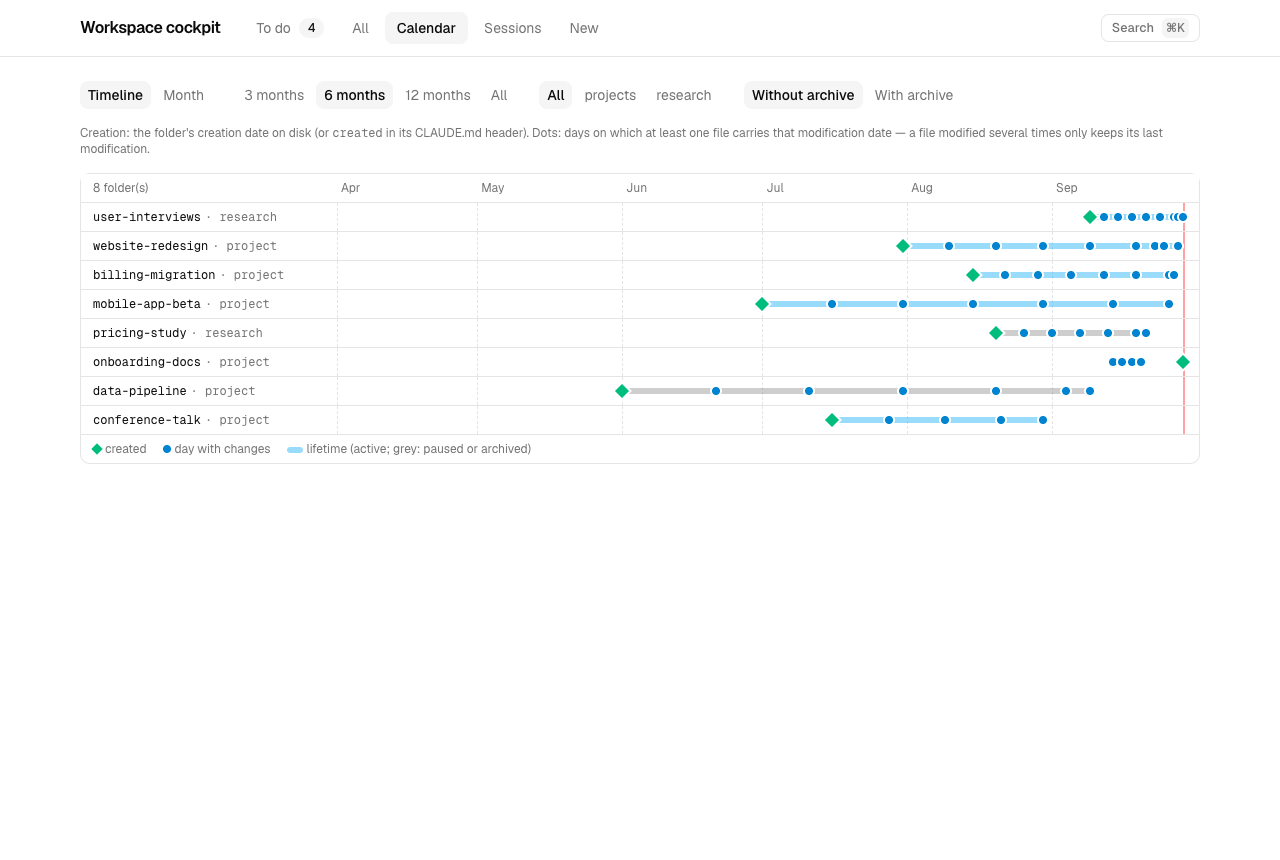
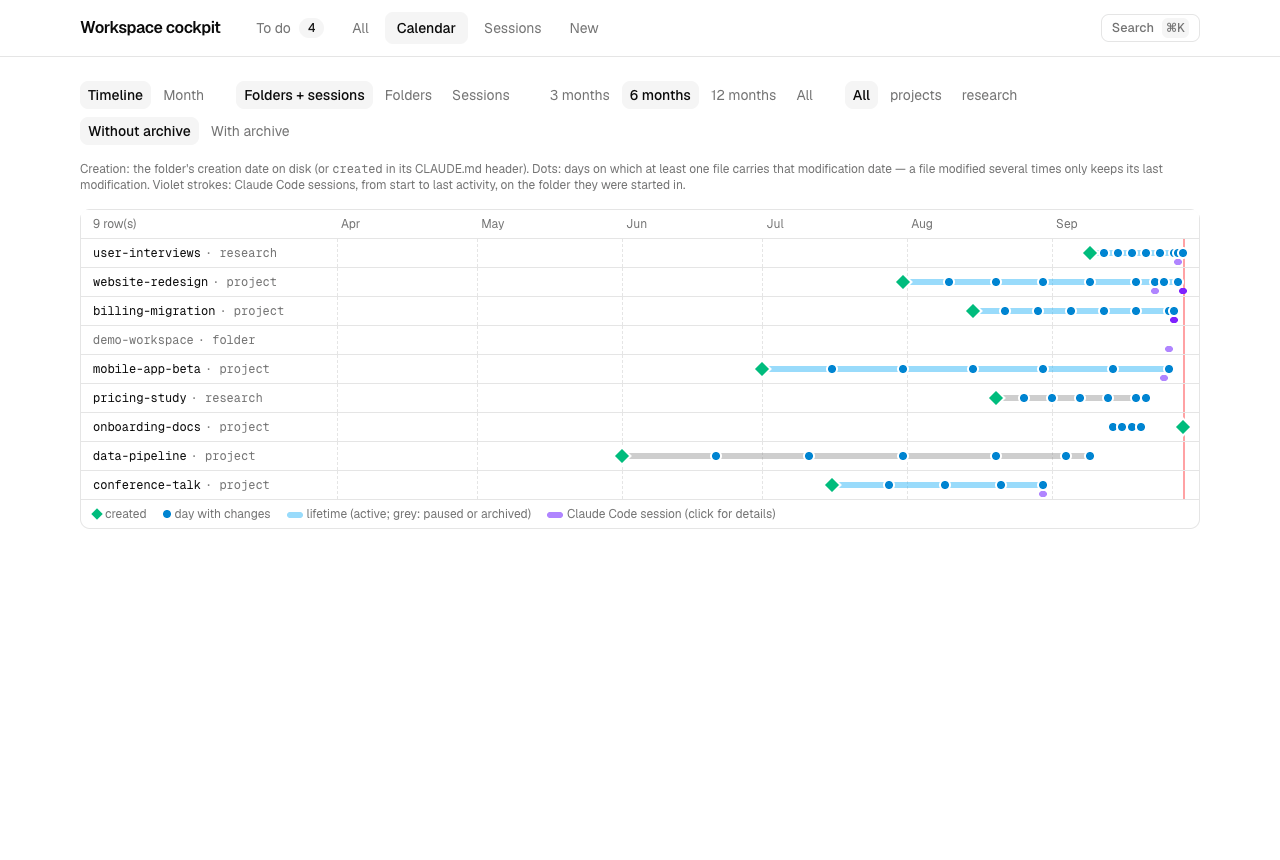
Calendar: show Claude Code sessions next to folders
A Folders / Sessions / both filter on the timeline and the month grid; sessions
attach to the tracked folder they were started in, others get a folder row.

diff --git a/web/components/timeline.tsx b/web/components/timeline.tsx
@@ -1,59 +1,81 @@
 import Link from "next/link";
-import { position, rangeStart, ticks, type Period } from "@/lib/calendar";
+import { localDay, position, rangeStart, ticks, type Period } from "@/lib/calendar";
+import { timelineRows, type Display } from "@/lib/calendar-rows";
 import { folderLink } from "@/lib/home";
-import type { CalendarEntry } from "@/lib/types";
+import type { CalendarEntry, Session } from "@/lib/types";
 import { cn } from "@/lib/utils";
 
 const pct = (f: number) => `${(f * 100).toFixed(3)}%`;
+const title = (s: Session) => s.title || s.first_prompt || s.last_prompt || "(untitled)";
 
-export function Timeline({ entries, today, period }: { entries: CalendarEntry[]; today: string; period: Period }) {
+export function Timeline({ entries, sessions, tracked, display, kindFilter, rootName, today, period }: {
+  entries: CalendarEntry[]; sessions: Session[]; tracked: string[]; display: Display; kindFilter: string; rootName: string;
+  today: string; period: Period;
+}) {
   const start = rangeStart(period, today, entries);
-  const last = (e: CalendarEntry) => e.days.at(-1) ?? e.created;
-  // Folders with no life inside the range are hidden; the most recently active come first.
-  const rows = entries.filter((e) => last(e) >= start).sort((a, b) => last(b).localeCompare(last(a)) || b.created.localeCompare(a.created));
+  const rows = timelineRows(entries, sessions, tracked, display, kindFilter, rootName).filter((r) => r.last >= start);
   const months = ticks(start, today);
 
   return (
     <div className="rounded-lg border">
       <div className="sticky top-14 z-10 flex border-b bg-background/95 text-xs text-muted-foreground">
-        <div className="w-64 shrink-0 px-3 py-1.5">{rows.length} folder(s)</div>
+        <div className="w-64 shrink-0 px-3 py-1.5">{rows.length} row(s)</div>
         <div className="relative mr-4 flex-1">
           {months.map((m) => <span key={m.key} className="absolute top-1.5 pl-1" style={{ left: pct(m.position) }}>{m.label}</span>)}
         </div>
       </div>
       <ul>
-        {rows.map((e) => {
+        {rows.map((r) => {
+          const e = r.entry;
+          const last = e ? (e.days.at(-1) ?? e.created) : "";
           // Imported files can be older than the folder: the bar starts at whichever comes first.
-          const first = e.days[0] && e.days[0] < e.created ? e.days[0] : e.created;
-          const left = position(first, start, today);
-          const right = position(last(e), start, today);
+          const first = e ? (e.days[0] && e.days[0] < e.created ? e.days[0] : e.created) : "";
           return (
-            <li key={e.path} className="flex items-center border-b last:border-b-0 hover:bg-muted/40">
-              <Link href={folderLink(e.path)} className="w-64 shrink-0 truncate px-3 py-1.5 font-mono text-xs hover:underline" title={e.path}>
-                {e.name}<span className="ml-1 text-muted-foreground">· {e.label}</span>
-              </Link>
+            <li key={r.key || "__root"} className="flex items-center border-b last:border-b-0 hover:bg-muted/40">
+              {tracked.includes(r.key)
+                ? <Link href={folderLink(r.key)} className="w-64 shrink-0 truncate px-3 py-1.5 font-mono text-xs hover:underline" title={r.key}>
+                    {r.name}{e && <span className="ml-1 text-muted-foreground">· {e.label}</span>}
+                  </Link>
+                : <Link href="/sessions" className="w-64 shrink-0 truncate px-3 py-1.5 font-mono text-xs text-muted-foreground hover:underline" title={`Sessions started in ${r.name}`}>
+                    {r.name}<span className="ml-1">· folder</span>
+                  </Link>}
               <div className="relative mr-4 h-7 flex-1">
                 {months.map((m) => <span key={m.key} className="absolute inset-y-0 border-l border-dashed border-border" style={{ left: pct(m.position) }} />)}
                 <span className="absolute inset-y-0 border-l-2 border-red-400/60" style={{ left: pct(1) }} title="today" />
-                <span title={`created ${e.created} · last activity ${last(e)}`}
-                  className={cn("absolute top-1/2 h-1.5 -translate-y-1/2 rounded-full",
-                    e.archived ? "bg-muted-foreground/20" : e.status === "active" ? "bg-sky-500/40" : "bg-muted-foreground/35")}
-                  style={{ left: pct(left), width: `max(0.375rem, ${pct(right - left)})` }} />
-                {e.days.filter((d) => d >= start).map((d) => (
-                  <span key={d} title={d} className={cn("absolute top-1/2 size-2 -translate-x-1/2 -translate-y-1/2 rounded-full ring-2 ring-background",
-                    e.archived ? "bg-muted-foreground/50" : "bg-sky-600")} style={{ left: pct(position(d, start, today)) }} />
-                ))}
-                {/* Drawn last: the creation marker stays visible over a same-day modification dot. */}
-                {e.created >= start && <span title={`created ${e.created}`} className="absolute top-1/2 size-2.5 -translate-x-1/2 -translate-y-1/2 rotate-45 bg-emerald-500 ring-2 ring-background" style={{ left: pct(position(e.created, start, today)) }} />}
+                {e && (
+                  <>
+                    <span title={`created ${e.created} · last activity ${last}`}
+                      className={cn("absolute top-1/2 h-1.5 -translate-y-1/2 rounded-full",
+                        e.archived ? "bg-muted-foreground/20" : e.status === "active" ? "bg-sky-500/40" : "bg-muted-foreground/35")}
+                      style={{ left: pct(position(first, start, today)), width: `max(0.375rem, ${pct(position(last, start, today) - position(first, start, today))})` }} />
+                    {e.days.filter((d) => d >= start).map((d) => (
+                      <span key={d} title={d} className={cn("absolute top-1/2 size-2 -translate-x-1/2 -translate-y-1/2 rounded-full ring-2 ring-background",
+                        e.archived ? "bg-muted-foreground/50" : "bg-sky-600")} style={{ left: pct(position(d, start, today)) }} />
+                    ))}
+                  </>
+                )}
+                {/* Sessions: a violet stroke at the bottom of the row, from first to last activity. */}
+                {r.sessions.filter((s) => localDay(s.end) >= start).map((s) => {
+                  const l = position(localDay(s.start), start, today);
+                  const w = position(localDay(s.end), start, today) - l;
+                  return (
+                    <Link key={s.id} href={`/sessions?s=${s.id}`}
+                      title={`${title(s)} — ${localDay(s.start)} → ${localDay(s.end)}${s.open ? " (open)" : ""}`}
+                      className={cn("absolute bottom-0.5 h-1.5 rounded-sm hover:h-2.5", s.open ? "bg-violet-600" : "bg-violet-500/70")}
+                      style={{ left: `calc(${pct(l)} - 0.25rem)`, width: `max(0.5rem, ${pct(w)})` }} />
+                  );
+                })}
+                {e && e.created >= start && <span title={`created ${e.created}`} className="absolute top-1/2 size-2.5 -translate-x-1/2 -translate-y-1/2 rotate-45 bg-emerald-500 ring-2 ring-background" style={{ left: pct(position(e.created, start, today)) }} />}
               </div>
             </li>
           );
         })}
       </ul>
-      <div className="flex gap-4 border-t px-3 py-1.5 text-xs text-muted-foreground">
+      <div className="flex flex-wrap gap-4 border-t px-3 py-1.5 text-xs text-muted-foreground">
         <span><span className="mr-1 inline-block size-2 rotate-45 bg-emerald-500" />created</span>
         <span><span className="mr-1 inline-block size-2 rounded-full bg-sky-600" />day with changes</span>
         <span><span className="mr-1 inline-block h-1.5 w-4 rounded-full bg-sky-500/40" />lifetime (active; grey: paused or archived)</span>
+        <span><span className="mr-1 inline-block h-1.5 w-4 rounded-sm bg-violet-500/70" />Claude Code session (click for details)</span>
       </div>
     </div>
   );

diff --git a/web/components/month.tsx b/web/components/month.tsx
@@ -1,21 +1,31 @@
 import Link from "next/link";
 import { ChevronLeft, ChevronRight } from "lucide-react";
 import { Button } from "@/components/ui/button";
-import { MONTH_NAMES, addMonths, byDay, monthGrid } from "@/lib/calendar";
+import { MONTH_NAMES, addMonths, attach, byDay, monthGrid, sessionsByDay, type DaySummary } from "@/lib/calendar";
+import type { Display } from "@/lib/calendar-rows";
 import { folderLink } from "@/lib/home";
-import type { CalendarEntry } from "@/lib/types";
+import type { CalendarEntry, Session } from "@/lib/types";
 import { cn } from "@/lib/utils";
 
 const PER_CELL = 3;
 const WEEKDAYS = ["Mon", "Tue", "Wed", "Thu", "Fri", "Sat", "Sun"];
+const title = (s: Session) => s.title || s.first_prompt || s.last_prompt || "(untitled)";
 
-export function Month({ entries, today, month, day, onMonth, onDay }: {
-  entries: CalendarEntry[]; today: string; month: string; day: string | null;
-  onMonth: (m: string) => void; onDay: (d: string | null) => void;
+export function Month({ entries, sessions, tracked, display, kindFilter, rootName, today, month, day, onMonth, onDay }: {
+  entries: CalendarEntry[]; sessions: Session[]; tracked: string[]; display: Display; kindFilter: string; rootName: string;
+  today: string; month: string; day: string | null; onMonth: (m: string) => void; onDay: (d: string | null) => void;
 }) {
   const key = /^\d{4}-\d{2}$/.test(month) ? month : today.slice(0, 7);
-  const days = byDay(entries);
-  const chosen = day ? days.get(day) : undefined;
+  const days: Map<string, DaySummary> = display === "sessions" ? new Map() : byDay(entries);
+  // Same rule as the timeline: a session follows its folder's visibility; outside any tracked folder, only without a collection filter.
+  const shown = new Set(entries.map((e) => e.path));
+  const visibleSessions = display === "folders" ? [] : sessions.filter((s) => {
+    const row = attach(s, tracked);
+    return tracked.includes(row) ? shown.has(row) : !kindFilter;
+  });
+  const sessionDays = sessionsByDay(visibleSessions);
+  const chosen = day ? { ...(days.get(day) ?? { created: [], modified: [] }), sessions: sessionDays.get(day) ?? [] } : null;
+  const empty = !chosen || chosen.created.length + chosen.modified.length + chosen.sessions.length === 0;
 
   return (
     <div className="space-y-3">
@@ -29,34 +39,49 @@ export function Month({ entries, today, month, day, onMonth, onDay }: {
         {WEEKDAYS.map((d) => <div key={d} className="border-b bg-muted/50 px-2 py-1 font-medium text-muted-foreground">{d}</div>)}
         {monthGrid(key).flat().map((d) => {
           const summary = days.get(d);
-          const names = [...(summary?.created ?? []).map((e) => ({ e, created: true })), ...(summary?.modified ?? []).map((e) => ({ e, created: false }))];
+          const lines = [
+            ...(summary?.created ?? []).map((e) => ({ key: `c${e.path}`, text: `+ ${e.name}`, cls: "font-mono text-emerald-600 dark:text-emerald-400" })),
+            ...(summary?.modified ?? []).map((e) => ({ key: `m${e.path}`, text: e.name, cls: "font-mono" })),
+            ...(sessionDays.get(d) ?? []).map((s) => ({ key: `s${s.id}`, text: `▸ ${title(s)}`, cls: "text-violet-600 dark:text-violet-400" })),
+          ];
           return (
-            <button key={d} onClick={() => onDay(names.length ? d : null)}
+            <button key={d} onClick={() => onDay(lines.length ? d : null)}
               className={cn("flex min-h-24 flex-col items-stretch justify-start border-b border-l p-1.5 text-left hover:bg-muted/40 [&:nth-child(7n+1)]:border-l-0",
                 !d.startsWith(key) && "bg-muted/20 text-muted-foreground/60", d === day && "ring-2 ring-inset ring-sky-500")}>
               <div className={cn("mb-1 self-start tabular-nums", d === today && "inline-flex size-5 items-center justify-center rounded-full bg-red-500 text-white")}>{+d.slice(8)}</div>
-              {names.slice(0, PER_CELL).map(({ e, created }) => (
-                <div key={e.path + created} className={cn("truncate font-mono", created ? "text-emerald-600 dark:text-emerald-400" : "")}>{created ? "+ " : ""}{e.name}</div>
-              ))}
-              {names.length > PER_CELL && <div className="text-muted-foreground">+{names.length - PER_CELL} more</div>}
+              {lines.slice(0, PER_CELL).map((l) => <div key={l.key} className={cn("truncate", l.cls)}>{l.text}</div>)}
+              {lines.length > PER_CELL && <div className="text-muted-foreground">+{lines.length - PER_CELL} more</div>}
             </button>
           );
         })}
       </div>
-      {day && chosen && (
+      {day && chosen && !empty && (
         <div className="rounded-lg border p-3 text-sm">
           <div className="mb-2 flex items-center">
             <h3 className="font-semibold">{day}</h3>
             <Button variant="ghost" size="sm" className="ml-auto" onClick={() => onDay(null)}>Close</Button>
           </div>
-          {([["Created", chosen.created], ["Modified", chosen.modified]] as const).map(([title, list]) => list.length > 0 && (
-            <div key={title} className="mb-2">
-              <div className="text-xs font-medium text-muted-foreground">{title}</div>
+          {([["Created", chosen.created], ["Modified", chosen.modified]] as const).map(([heading, list]) => list.length > 0 && (
+            <div key={heading} className="mb-2">
+              <div className="text-xs font-medium text-muted-foreground">{heading}</div>
               <ul className="mt-1 flex flex-wrap gap-x-4 gap-y-1">
                 {list.map((e) => <li key={e.path}><Link href={folderLink(e.path)} className="font-mono text-xs hover:underline">{e.name}</Link></li>)}
               </ul>
             </div>
           ))}
+          {chosen.sessions.length > 0 && (
+            <div>
+              <div className="text-xs font-medium text-muted-foreground">Claude Code sessions</div>
+              <ul className="mt-1 space-y-0.5">
+                {chosen.sessions.map((s) => (
+                  <li key={s.id} className="text-xs">
+                    <Link href={`/sessions?s=${s.id}`} className="text-violet-600 hover:underline dark:text-violet-400">{title(s)}</Link>
+                    <span className="ml-2 font-mono text-muted-foreground">{s.folder || rootName}</span>
+                  </li>
+                ))}
+              </ul>
+            </div>
+          )}
         </div>
       )}
     </div>

diff --git a/web/components/calendar-view.tsx b/web/components/calendar-view.tsx
@@ -2,7 +2,8 @@
 
 import { usePathname, useRouter, useSearchParams } from "next/navigation";
 import type { Period } from "@/lib/calendar";
-import type { CalendarEntry } from "@/lib/types";
+import type { Display } from "@/lib/calendar-rows";
+import type { CalendarEntry, Session } from "@/lib/types";
 import { cn } from "@/lib/utils";
 import { Month } from "./month";
 import { useSettings } from "./settings";
@@ -19,11 +20,11 @@ function Choice({ options, value, onChoose }: { options: [string, string][]; val
   );
 }
 
-export function CalendarView({ entries, today }: { entries: CalendarEntry[]; today: string }) {
+export function CalendarView({ entries, sessions, today }: { entries: CalendarEntry[]; sessions: Session[]; today: string }) {
   const router = useRouter();
   const pathname = usePathname();
   const params = useSearchParams();
-  const { collections, header_file } = useSettings();
+  const { collections, header_file, root } = useSettings();
   const view = params.get("view") === "month" ? "month" : "timeline";
   const period = (params.get("period") ?? "6") as Period;
   const kind = params.get("kind") ?? "";
@@ -33,23 +34,29 @@ export function CalendarView({ entries, today }: { entries: CalendarEntry[]; tod
     if (value) next.set(key, value); else next.delete(key);
     router.replace(`${pathname}?${next.toString()}`, { scroll: false });
   };
+  const display = (["folders", "sessions"].includes(params.get("show") ?? "") ? params.get("show") : "both") as Display;
   const visible = entries.filter((e) => (!kind || e.collection === kind) && (archives || !e.archived));
+  // Sessions attach to any known folder (archived included), so hiding the archive also hides their sessions.
+  const tracked = entries.map((e) => e.path);
+  const rootName = root.split("/").filter(Boolean).at(-1) ?? "workspace";
 
   return (
     <div className="space-y-4">
       <div className="flex flex-wrap items-center gap-x-6 gap-y-2">
         <Choice options={[["timeline", "Timeline"], ["month", "Month"]]} value={view} onChoose={(v) => change("view", v === "timeline" ? "" : v)} />
+        <Choice options={[["both", "Folders + sessions"], ["folders", "Folders"], ["sessions", "Sessions"]]} value={display} onChoose={(v) => change("show", v === "both" ? "" : v)} />
         {view === "timeline" && <Choice options={[["3", "3 months"], ["6", "6 months"], ["12", "12 months"], ["all", "All"]]} value={period} onChoose={(v) => change("period", v === "6" ? "" : v)} />}
         {collections.length > 1 && <Choice options={[["", "All"], ...collections.map((c): [string, string] => [c.dir, c.dir])]} value={kind} onChoose={(v) => change("kind", v)} />}
         <Choice options={[["", "Without archive"], ["1", "With archive"]]} value={archives ? "1" : ""} onChoose={(v) => change("archives", v)} />
       </div>
       <p className="text-xs text-muted-foreground">
         Creation: the folder&apos;s creation date on disk (or <code>created</code> in its {header_file} header). Dots: days on which at least one file
-        carries that modification date — a file modified several times only keeps its last modification.
+        carries that modification date — a file modified several times only keeps its last modification. Violet strokes:
+        Claude Code sessions, from start to last activity, on the folder they were started in.
       </p>
       {view === "timeline"
-        ? <Timeline entries={visible} today={today} period={period} />
-        : <Month entries={visible} today={today} month={params.get("month") ?? today.slice(0, 7)} day={params.get("day")}
+        ? <Timeline entries={visible} sessions={sessions} tracked={tracked} display={display} kindFilter={kind} rootName={rootName} today={today} period={period} />
+        : <Month entries={visible} sessions={sessions} tracked={tracked} display={display} kindFilter={kind} rootName={rootName} today={today} month={params.get("month") ?? today.slice(0, 7)} day={params.get("day")}
             onMonth={(m) => { const s = new URLSearchParams(params.toString()); s.set("month", m); s.delete("day"); router.replace(`${pathname}?${s.toString()}`, { scroll: false }); }}
             onDay={(d) => change("day", d ?? "")} />}
     </div>

diff --git a/web/tests/calendar-tree-format.test.ts b/web/tests/calendar-tree-format.test.ts
@@ -103,3 +103,39 @@ describe("tilde and ages", () => {
     expect(relativeAge(now / 1000 - 86_400 * 95, now)).toBe("3 months ago");
   });
 });
+
+import { attach, localDay, sessionsByDay } from "@/lib/calendar";
+import { timelineRows } from "@/lib/calendar-rows";
+
+const ss = (id: string, folder: string, start: string, end: string): Session => ({
+  id, cwd: `/w/${folder}`, folder, title: id, first_prompt: "", last_prompt: "", start, end, prompts: 1,
+  branch: "", open: false, state: null, name: "", pid: null,
+});
+
+describe("sessions in the calendar", () => {
+  const tracked = ["projects/alpha", "projects/alpha-bis", "projects/hidden"];
+  it("attaches a session to the folder containing it, never to a false prefix", () => {
+    expect(attach(ss("a", "projects/alpha/specs", "", ""), tracked)).toBe("projects/alpha");
+    expect(attach(ss("b", "projects/alpha-bis", "", ""), tracked)).toBe("projects/alpha-bis");
+    expect(attach(ss("c", "tools", "", ""), tracked)).toBe("tools");
+    expect(attach(ss("d", "", "", ""), tracked)).toBe("");
+  });
+  it("counts a session on its first and last day, once when equal", () => {
+    const m = sessionsByDay([ss("a", "", "2026-09-01T12:00:00Z", "2026-09-03T12:00:00Z"), ss("b", "", "2026-09-03T11:00:00Z", "2026-09-03T12:00:00Z")]);
+    expect(m.get(localDay("2026-09-01T12:00:00Z"))!.map((x) => x.id)).toEqual(["a"]);
+    expect(m.get(localDay("2026-09-03T12:00:00Z"))!.map((x) => x.id)).toEqual(["a", "b"]);
+    expect(localDay(null)).toBe("");
+  });
+  it("timeline rows for each display mode", () => {
+    const entries = [e("alpha", "2026-09-01", ["2026-09-01"]), e("beta", "2026-08-01", ["2026-08-01"])];
+    const sessions = [ss("s1", "projects/alpha", "2026-09-10T12:00:00Z", "2026-09-10T12:00:00Z"), ss("s2", "tools", "2026-09-20T12:00:00Z", "2026-09-20T12:00:00Z"),
+      ss("s3", "projects/hidden/x", "2026-09-05T12:00:00Z", "2026-09-05T12:00:00Z")];
+    const t = [...tracked, "projects/beta"];
+    expect(timelineRows(entries, sessions, t, "folders", "").map((r) => r.key)).toEqual(["projects/alpha", "projects/beta"]);
+    const both = timelineRows(entries, sessions, t, "both", "");
+    expect(both.map((r) => r.key)).toEqual(["tools", "projects/alpha", "projects/beta"]);
+    expect(both[1].sessions.map((x) => x.id)).toEqual(["s1"]);
+    expect(timelineRows(entries, sessions, t, "sessions", "").every((r) => r.entry === null)).toBe(true);
+    expect(timelineRows(entries, sessions, t, "both", "projects").map((r) => r.key)).toEqual(["projects/alpha", "projects/beta"]);
+  });
+});

diff --git a/web/lib/calendar-rows.ts b/web/lib/calendar-rows.ts
@@ -1,0 +1,37 @@
+import { attach, localDay } from "./calendar";
+import type { CalendarEntry, Session } from "./types";
+
+export type Display = "folders" | "sessions" | "both";
+
+export interface TimelineRow {
+  key: string;                   // tracked folder path, or a session folder ("" = workspace root)
+  name: string;
+  entry: CalendarEntry | null;   // null: sessions only (a folder that is not tracked, or the "sessions" display)
+  sessions: Session[];
+  last: string;                  // last day of activity (YYYY-MM-DD)
+}
+
+const latest = (days: string[]) => days.reduce((a, b) => (b > a ? b : a), "");
+
+/**
+ * Tracked folders keep their row; sessions land on their folder's row, or on an extra row when started outside any
+ * tracked folder (only without a collection filter). A tracked folder hidden by the filters hides its sessions.
+ */
+export function timelineRows(entries: CalendarEntry[], sessions: Session[], tracked: string[], display: Display, kindFilter: string, rootName = "workspace root"): TimelineRow[] {
+  const byRow = new Map<string, Session[]>();
+  if (display !== "folders") for (const s of sessions) { const k = attach(s, tracked); byRow.set(k, [...(byRow.get(k) ?? []), s]); }
+  const known = new Set(tracked);
+  const rows: TimelineRow[] = [];
+  for (const e of entries) {
+    const ss = byRow.get(e.path) ?? [];
+    if (display === "sessions" && !ss.length) continue;
+    rows.push({ key: e.path, name: e.name, entry: display === "sessions" ? null : e, sessions: ss,
+      last: latest([...(display === "sessions" ? [] : [e.days.at(-1) ?? e.created]), ...ss.map((s) => localDay(s.end))]) });
+  }
+  if (!kindFilter) {
+    for (const [key, ss] of byRow) {
+      if (!known.has(key)) rows.push({ key, name: key || rootName, entry: null, sessions: ss, last: latest(ss.map((s) => localDay(s.end))) });
+    }
+  }
+  return rows.sort((a, b) => b.last.localeCompare(a.last) || a.name.localeCompare(b.name));
+}

diff --git a/web/lib/calendar.ts b/web/lib/calendar.ts
@@ -1,4 +1,4 @@
-import type { CalendarEntry } from "./types";
+import type { CalendarEntry, Session } from "./types";
 
 // All date arithmetic in UTC on YYYY-MM-DD strings: no daylight-saving drift.
 export type Period = "3" | "6" | "12" | "all";
@@ -57,6 +57,27 @@ export function byDay(entries: CalendarEntry[]): Map<string, DaySummary> {
   for (const e of entries) {
     if (e.created) day(e.created).created.push(e);
     for (const j of e.days) if (j !== e.created) day(j).modified.push(e);
+  }
+  return days;
+}
+
+/** Local calendar day (YYYY-MM-DD) of an ISO timestamp, "" when missing. */
+export function localDay(iso: string | null): string {
+  return iso ? new Date(iso).toLocaleDateString("sv-SE") : "";
+}
+
+/** Tracked folder containing the session's folder, else the session's own folder ("" = workspace root). */
+export function attach(s: Session, tracked: string[]): string {
+  return tracked.filter((f) => s.folder === f || s.folder.startsWith(`${f}/`)).sort((a, b) => b.length - a.length)[0] ?? s.folder;
+}
+
+/** A session counts on its first day and on its last day of activity (once when they are the same). */
+export function sessionsByDay(sessions: Session[]): Map<string, Session[]> {
+  const days = new Map<string, Session[]>();
+  for (const s of sessions) {
+    for (const d of new Set([localDay(s.start), localDay(s.end)])) {
+      if (d) days.set(d, [...(days.get(d) ?? []), s]);
+    }
   }
   return days;
 }

diff --git a/web/app/calendar/page.tsx b/web/app/calendar/page.tsx
@@ -1,11 +1,11 @@
 import { connection } from "next/server";
 import { Suspense } from "react";
 import { CalendarView } from "@/components/calendar-view";
-import { calendar } from "@/lib/cockpit";
+import { calendar, sessions } from "@/lib/cockpit";
 import { todayIso } from "@/lib/time";
 
 export default async function CalendarPage() {
   await connection();
-  const entries = await calendar();
-  return <Suspense><CalendarView entries={entries} today={todayIso()} /></Suspense>;
+  const [entries, allSessions] = await Promise.all([calendar(), sessions()]);
+  return <Suspense><CalendarView entries={entries} sessions={allSessions} today={todayIso()} /></Suspense>;
 }
